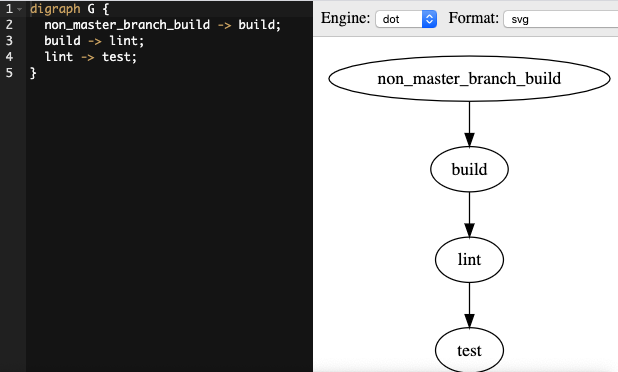
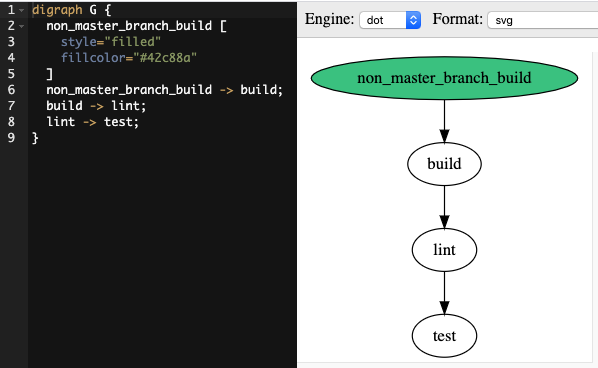
add colour to the workflow node (#4)

Changed region(s): [[0.0, 0.0, 1.0, 1.0], [0.0, 0.2391, 0.0602, 0.3886]]

diff --git a/src/draw.js b/src/draw.js
@@ -1,5 +1,6 @@
 /* eslint-disable guard-for-in */
 /* eslint-disable no-restricted-syntax */
+const dedent = require("dedent");
 
 module.exports.runCommand = (cliArgs, workflows) => {
   const workflowObject = workflows[cliArgs.workflow];
@@ -22,23 +23,29 @@ module.exports.runCommand = (cliArgs, workflows) => {
     output.push(string);
   };
 
-  appendOutput(" G {");
+  appendOutput(` G {`);
+  appendOutput(
+    // eslint-disable-next-line prefer-template
+    "  " +
+      dedent(`
+        ${cliArgs.workflow} [
+            style="filled"
+            fillcolor="#42c88a"
+          ]`)
+  );
 
   const jobsFound = [];
-  // console.log(`jobs = ${JSON.stringify(jobs)}`);
 
   for (const jobIndex in jobs) {
     let job = jobs[jobIndex];
 
-    // normalise the job to be an object with a single attribute like this
+    // normalise the job to be an object with a single attribute whose key is the job name
     // { "job_name": { ... } }
     if (typeof job === "string") {
       const jobName = job;
       job = {};
       job[jobName] = {};
     }
-
-    // console.log(`job = ${JSON.stringify(job)}`);
 
     for (let jobName in job) {
       // there can be only one - Highlander :-)
@@ -61,14 +68,8 @@ module.exports.runCommand = (cliArgs, workflows) => {
 
       addJobIfNew(jobName);
 
-      // console.log(`jobName = ${JSON.stringify(jobName)}`);
-      // console.log(`jobsFound = ${JSON.stringify(jobsFound)}`);
-      // console.log(`jobContents = ${JSON.stringify(jobContents)}`);
-
       const { requires } = jobContents;
       if (requires) {
-        // console.log(`requires = ${JSON.stringify(requires)}`);
-
         for (const requirementIndex in requires) {
           const requirement = requires[requirementIndex];
           if (!jobExists(requirement)) {

diff --git a/README.md b/README.md
@@ -2,9 +2,9 @@
 
 ![Lint](https://github.com/lqueryvg/ccigraph/workflows/Lint/badge.svg)
 
-`ccigraph` is a CLI tool to help creates graph (think "diagrams") of your CircleCI workflows.
+Create CircleCI workflow diagrams from the CLI.
 
-Suitable for viewing in https://dreampuf.github.io/GraphvizOnline.
+The diagrams can be viewed here: https://dreampuf.github.io/GraphvizOnline.
 
 ## Usage
 
@@ -26,7 +26,9 @@ Long Names:
 
 ## Example
 
-First, list the workflow names in your CircleCI config file:
+Imagine you are in the root of your project and
+you have a `.circleci/config.yml` which contains
+two workflows. You can list them as follows:
 
 ```
 $ ccigraph list
@@ -34,17 +36,19 @@ non_master_branch_build
 build_test_deploy
 ```
 
-Next, create a link to the graph:
+Create a diagram of the `non_master_branch_build` workflow as follows:
 
 ```
-$ ccigraph draw -w build_test_deploy
+$ ccigraph draw -w non_master_branch_build
 https://dreampuf.github.io/GraphvizOnline/#digraph%20G%20%7B%0A%20%20non_master_branch_build%20-%3E%20build%3B%0A%20%20build%20-%3E%20lint%3B%0A%20%20lint%20-%3E%20test%3B%0A%7D
 ```
 
-If you are using a terminal tool which supports URL links,
+The output is a link to the diagram.
+
+Tip: If you are using a terminal tool which supports URL links,
 you can click the link to open a browser tab.
 
-For example `Cmd` click on the URL on Mac in iTerm2.
+For example `Cmd`-`click` on the URL on Mac in iTerm2.
 
 You should see something like this in a new browser tab:
 
@@ -52,7 +56,7 @@ You should see something like this in a new browser tab:
 
 ## Bugs / Caveats
 
-If your CircleCI config file is invalid, don't expect great results from this tool.
+If your CircleCI config file is invalid, don't be shocked if this tool fails.
 
 Consider validating the CircleCI config first using the [CircleCI CLI](https://circleci.com/docs/2.0/local-cli/)
 
